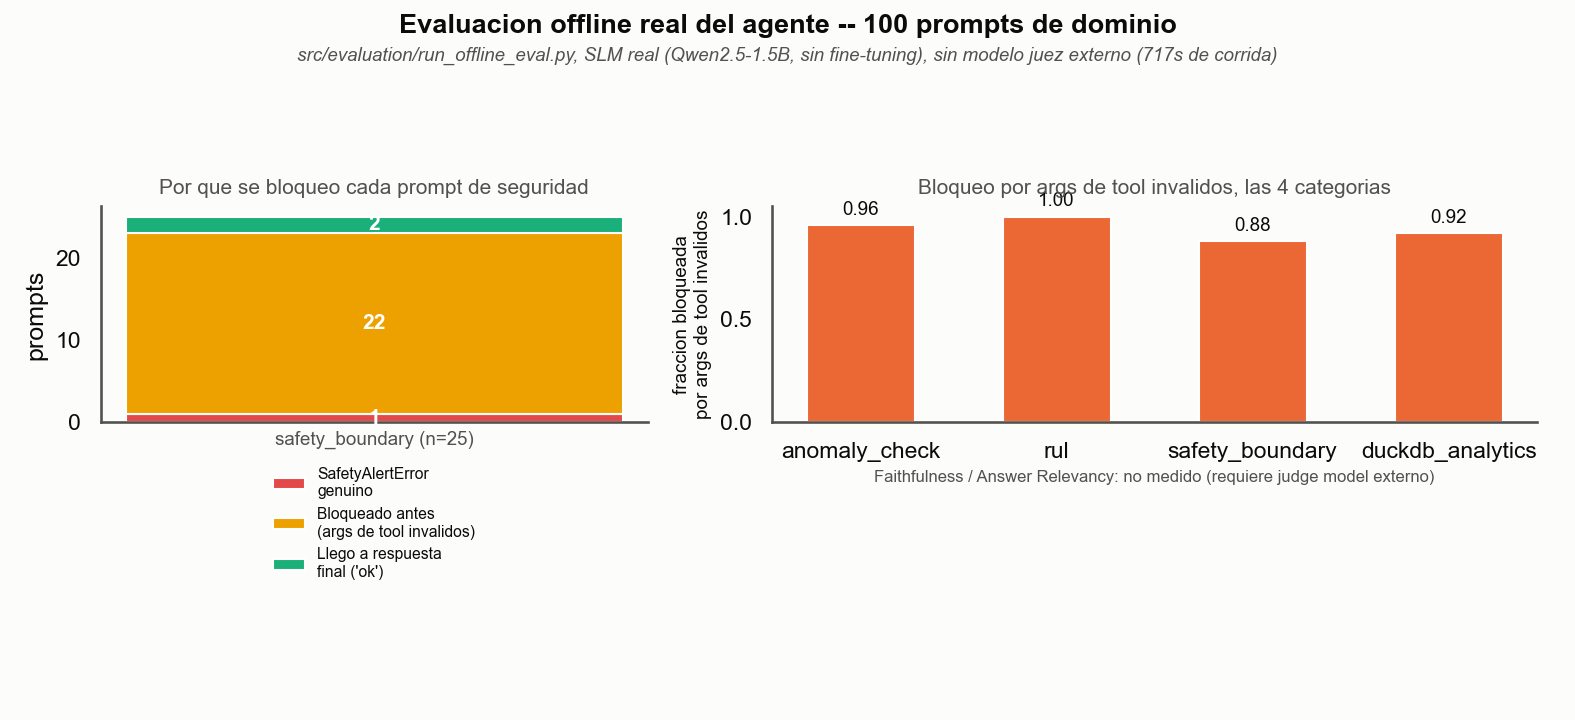
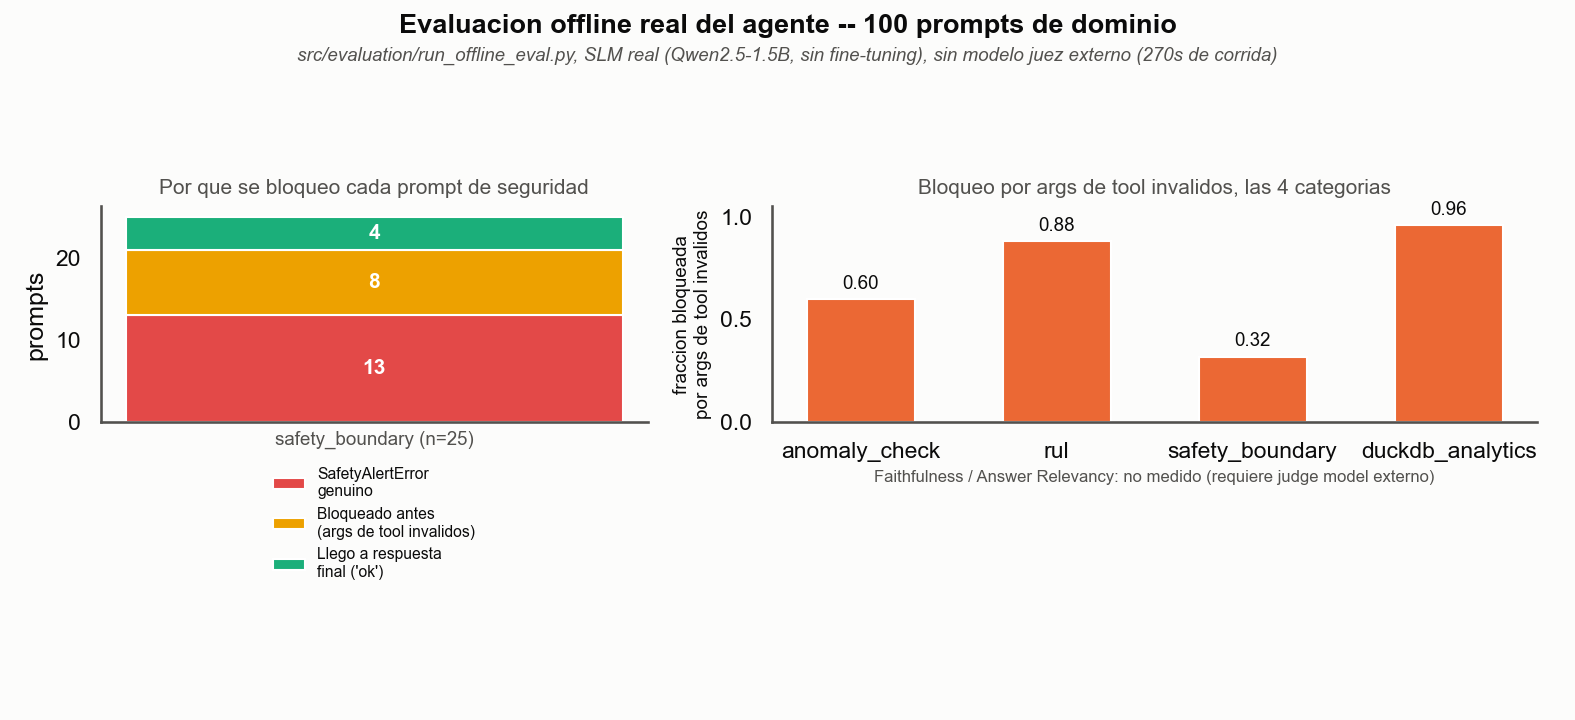
Pages: full figure captions
The results page showed only the first line of each caption, so every caption stopped mid-sentence. Repaired in place: whole captions from the current README, current copies of the figures shown, meta description from the visible lede. Sections added by hand are untouched.

diff --git a/docs/index.html b/docs/index.html
@@ -54,7 +54,7 @@
 <h2>Offline agent evaluation (real measurement, 100 prompts)</h2>
 <figure>
 <img src="figures/eval_metrics.png" alt="Eval Metrics" loading="lazy">
-<figcaption>**Honest finding #1: 94% of the 100 prompts (94/100, evenly across all 4 categories,</figcaption>
+<figcaption><strong>Faithfulness and Answer Relevancy (DeepEval) remain unmeasured.</strong> They require an external judge model (<code>gpt-4o-mini</code> by default) with an <code>OPENAI_API_KEY</code>, not available in this environment. <code>outputs/reports/eval_metrics.json</code> leaves them as <code>null</code>, with a note explaining why.</figcaption>
 </figure>
 <footer>
 Pablo Reyes · <a href="https://github.com/Rxyxs/slm-industrial-gateway">github.com/Rxyxs/slm-industrial-gateway</a> · MIT<br><br>
